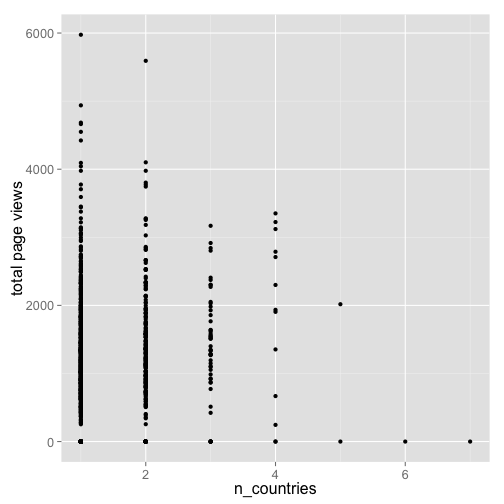
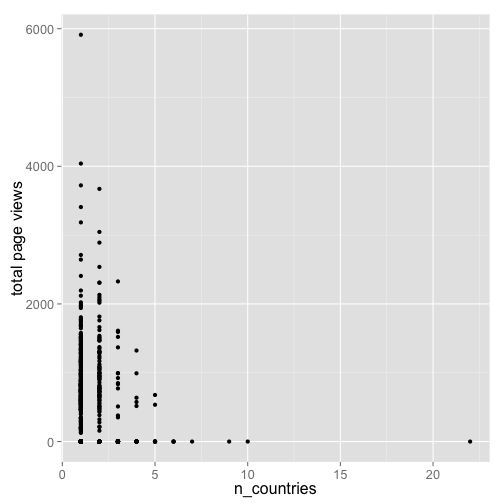
fixed rplos installation line

diff --git a/_site/2014/12/rplos-pubs-country/index.html b/_site/2014/12/rplos-pubs-country/index.html
@@ -71,7 +71,7 @@
 <p>You'll need the GitHub version for the coutry names data, or just use the CRAN version, and get country names elsewhere.</p>
 
 <pre><code class="r">install.packages("devtools")
-devtools::install_github("rplos")
+devtools::install_github("ropensci/rplos")
 </code></pre>
 
 <pre><code class="r">library("rplos")
@@ -91,19 +91,19 @@ devtools::install_github("rplos")
   isocodes$name[out]
 }))
 #&gt; [[1]]
-#&gt; [1] "Netherlands"
+#&gt; character(0)
 #&gt; 
 #&gt; [[2]]
-#&gt; [1] "China"
+#&gt; [1] "Jersey"        "United States"
 #&gt; 
 #&gt; [[3]]
-#&gt; [1] "Canada"
+#&gt; [1] "China"   "Germany"
 #&gt; 
 #&gt; [[4]]
-#&gt; [1] "China"
+#&gt; character(0)
 #&gt; 
 #&gt; [[5]]
-#&gt; [1] "Germany"
+#&gt; [1] "Argentina"      "United Kingdom"
 </code></pre>
 
 <p>You can combine this data with the previously collected data:</p>
@@ -118,23 +118,23 @@ splitem &lt;- function(x){
 articles$data$countries &lt;- sapply(countries, splitem)
 head(articles$data)
 #&gt;                             id
-#&gt; 1 10.1371/journal.pone.0004237
-#&gt; 2 10.1371/journal.pone.0006239
-#&gt; 3 10.1371/journal.pone.0034856
-#&gt; 4 10.1371/journal.pone.0021965
-#&gt; 5 10.1371/journal.pone.0008295
-#&gt;                                                                                                                                                                                                                                                                                                                                                                                   author_affiliate
-#&gt; 1 Division of General Internal Medicine, Department of Medicine, Radboud University Nijmegen Medical Center, Nijmegen, The Netherlands; Nijmegen Institute of Infection, Inflammation and Immunity (N4i), Nijmegen, The Netherlands; Department of Pharmacology and Toxicology, Nijmegen Center for Molecular Life Sciences, Radboud University Nijmegen Medical Center, Nijmegen, The Netherlands
-#&gt; 2                                                                                                                                                                                                                       State Key Laboratory of Cognitive Neuroscience and Learning, Beijing Normal University, Beijing, China; Graduate University of Chinese Academy of Sciences, Beijing, China
-#&gt; 3                                                                                                                                                                  Rotman Research Institute of Baycrest, Toronto, Ontario, Canada; Department of Psychology, University of Toronto, Toronto, Ontario, Canada; Dalla Lana School of Public Health, University of Toronto, Toronto, Ontario, Canada
-#&gt; 4                                                                                                                             Hefei National Laboratory for Physical Sciences at Microscale, School of Life Sciences, University of Science and Technology of China, Hefei, Anhui, People's Republic of China; School of Life Sciences, Anhui University, Hefei, Anhui, People's Republic of China
-#&gt; 5                                                                                                                                                                                                                                                                                                                   Institute of Biochemistry, Charité-Universitätsmedizin Berlin, Berlin, Germany
-#&gt;     countries
-#&gt; 1 Netherlands
-#&gt; 2       China
-#&gt; 3      Canada
-#&gt; 4       China
-#&gt; 5     Germany
+#&gt; 1 10.1371/journal.pone.0095870
+#&gt; 2 10.1371/journal.pone.0110535
+#&gt; 3 10.1371/journal.pone.0110991
+#&gt; 4 10.1371/journal.pone.0111234
+#&gt; 5 10.1371/journal.pone.0111388
+#&gt;                                                                                                                                                                                                                                                                                                                                                                                                                                                                                                                                                                                                                                                                                                                                                                                author_affiliate
+#&gt; 1 Institute of Epidemiology and Preventive Medicine, College of Public Health, National Taiwan University, Taipei, Taiwan; Department of Clinical Laboratory Sciences and Medical Biotechnology, College of Medicine, National Taiwan University, Taipei, Taiwan; Department of Gastroenterology, Ren-Ai Branch, Taipei City Hospital, Taipei, Taiwan; Division of Gastroenterology, Department of Internal Medicine, National Taiwan University Hospital and National Taiwan University College of Medicine, Taipei, Taiwan; Liver Research Unit, Chang Gung Memorial Hospital, Chang Gung University College of Medicine, Taipei, Taiwan; Division of Gastroenterology, Department of Medicine, Taipei Veterans General Hospital, Taipei, Taiwan; Cheng Hsin General Hospital, Taipei, Taiwan
+#&gt; 2    Durham Nephrology Associates, Durham, North Carolina, United States of America; Scientific Activities Department, The National Kidney Foundation, Inc., New York, New York, United States of America; Covance Inc., Princeton, New Jersey, United States of America; Departments of Medicine and Population Health Sciences, University of Wisconsin School of Medicine and Public Health, Madison, Wisconsin, United States of America; Department of Family Medicine, University at Buffalo, Buffalo, New York, United States of America; Baylor Health Care System, Baylor Heart and Vascular Institute, Dallas, Texas, United States of America; Department of Medicine, Division of Nephrology, Icahn School of Medicine at Mount Sinai, New York, New York, United States of America
+#&gt; 3                                                                                                                                                                                                                                                                                                                                                                                                                                  State Key Laboratory of Electronic Thin Films and Integrated Devices, School of Microelectronics and Solid-State electronics, University of Electronic Science and Technology of China, Sichuan, China; Electrical and Computer Engineering, Kaiserslautern University of Technology, Kaiserslautern German Gottlieb-Daimler-Strabe, Kaiserslautern, Germany
+#&gt; 4                                                                                                                                                                                                                                                                                                                                                                                                                                                                                                                                         SB RAS Institute of Chemical Biology and Fundamental Medicine, Novosibirsk, Russia; Pacific Institute of Bioorganic Chemistry, Far East Division, Russian Academy of Sciences, Vladivostok, Russia; Novosibirsk State University, Novosibirsk, Russia
+#&gt; 5                                                                                                                                                                                                                                                                                                                                                                                   CONICET, Consejo Nacional de Investigaciones Científicas y Técnicas, Ciudad Autónoma de Buenos Aires, Buenos Aires, Argentina; INGEO, Instituto de Geología, Facultad de Ciencias Exactas, Físicas y Naturales, Universidad Nacional de San Juan, San Juan, San Juan, Argentina; School of Geography, Earth and Environmental Sciences, University of Birmingham, Birmingham, West Midlands, United Kingdom
+#&gt;                   countries
+#&gt; 1                      &lt;NA&gt;
+#&gt; 2     Jersey, United States
+#&gt; 3            China, Germany
+#&gt; 4                      &lt;NA&gt;
+#&gt; 5 Argentina, United Kingdom
 </code></pre>
 
 <h2>Bigger data set</h2>
@@ -144,6 +144,8 @@ head(articles$data)
 <pre><code class="r">articles &lt;- searchplos(q='*:*', limit = 1000,
     fl=c("id","counter_total_all","author_affiliate"), 
     fq=list('article_type:"Research Article"', "doc_type:full"))
+#&gt; 1 
+#&gt; 2
 </code></pre>
 
 <p>Get countries</p>
@@ -171,7 +173,7 @@ ggplot(df, aes(n_countries, as.numeric(counter_total_all))) +
   theme_grey(base_size = 16)
 </code></pre>
 
-<p><img src="/public/img/2014-12-03-rplos-pubs-country/unnamed-chunk-10-1.png" alt="" /></p>
+<p><img src="figure/unnamed-chunk-10-1.png" alt="plot of chunk unnamed-chunk-10" /></p>
 
 <p>Conclusion: meh, maybe, maybe not</p>
 

diff --git a/_site/index.html b/_site/index.html
@@ -77,7 +77,7 @@
 <p>You'll need the GitHub version for the coutry names data, or just use the CRAN version, and get country names elsewhere.</p>
 
 <pre><code class="r">install.packages("devtools")
-devtools::install_github("rplos")
+devtools::install_github("ropensci/rplos")
 </code></pre>
 
 <pre><code class="r">library("rplos")
@@ -97,19 +97,19 @@ devtools::install_github("rplos")
   isocodes$name[out]
 }))
 #&gt; [[1]]
-#&gt; [1] "Netherlands"
+#&gt; character(0)
 #&gt; 
 #&gt; [[2]]
-#&gt; [1] "China"
+#&gt; [1] "Jersey"        "United States"
 #&gt; 
 #&gt; [[3]]
-#&gt; [1] "Canada"
+#&gt; [1] "China"   "Germany"
 #&gt; 
 #&gt; [[4]]
-#&gt; [1] "China"
+#&gt; character(0)
 #&gt; 
 #&gt; [[5]]
-#&gt; [1] "Germany"
+#&gt; [1] "Argentina"      "United Kingdom"
 </code></pre>
 
 <p>You can combine this data with the previously collected data:</p>
@@ -124,23 +124,23 @@ splitem &lt;- function(x){
 articles$data$countries &lt;- sapply(countries, splitem)
 head(articles$data)
 #&gt;                             id
-#&gt; 1 10.1371/journal.pone.0004237
-#&gt; 2 10.1371/journal.pone.0006239
-#&gt; 3 10.1371/journal.pone.0034856
-#&gt; 4 10.1371/journal.pone.0021965
-#&gt; 5 10.1371/journal.pone.0008295
-#&gt;                                                                                                                                                                                                                                                                                                                                                                                   author_affiliate
-#&gt; 1 Division of General Internal Medicine, Department of Medicine, Radboud University Nijmegen Medical Center, Nijmegen, The Netherlands; Nijmegen Institute of Infection, Inflammation and Immunity (N4i), Nijmegen, The Netherlands; Department of Pharmacology and Toxicology, Nijmegen Center for Molecular Life Sciences, Radboud University Nijmegen Medical Center, Nijmegen, The Netherlands
-#&gt; 2                                                                                                                                                                                                                       State Key Laboratory of Cognitive Neuroscience and Learning, Beijing Normal University, Beijing, China; Graduate University of Chinese Academy of Sciences, Beijing, China
-#&gt; 3                                                                                                                                                                  Rotman Research Institute of Baycrest, Toronto, Ontario, Canada; Department of Psychology, University of Toronto, Toronto, Ontario, Canada; Dalla Lana School of Public Health, University of Toronto, Toronto, Ontario, Canada
-#&gt; 4                                                                                                                             Hefei National Laboratory for Physical Sciences at Microscale, School of Life Sciences, University of Science and Technology of China, Hefei, Anhui, People's Republic of China; School of Life Sciences, Anhui University, Hefei, Anhui, People's Republic of China
-#&gt; 5                                                                                                                                                                                                                                                                                                                   Institute of Biochemistry, Charité-Universitätsmedizin Berlin, Berlin, Germany
-#&gt;     countries
-#&gt; 1 Netherlands
-#&gt; 2       China
-#&gt; 3      Canada
-#&gt; 4       China
-#&gt; 5     Germany
+#&gt; 1 10.1371/journal.pone.0095870
+#&gt; 2 10.1371/journal.pone.0110535
+#&gt; 3 10.1371/journal.pone.0110991
+#&gt; 4 10.1371/journal.pone.0111234
+#&gt; 5 10.1371/journal.pone.0111388
+#&gt;                                                                                                                                                                                                                                                                                                                                                                                                                                                                                                                                                                                                                                                                                                                                                                                author_affiliate
+#&gt; 1 Institute of Epidemiology and Preventive Medicine, College of Public Health, National Taiwan University, Taipei, Taiwan; Department of Clinical Laboratory Sciences and Medical Biotechnology, College of Medicine, National Taiwan University, Taipei, Taiwan; Department of Gastroenterology, Ren-Ai Branch, Taipei City Hospital, Taipei, Taiwan; Division of Gastroenterology, Department of Internal Medicine, National Taiwan University Hospital and National Taiwan University College of Medicine, Taipei, Taiwan; Liver Research Unit, Chang Gung Memorial Hospital, Chang Gung University College of Medicine, Taipei, Taiwan; Division of Gastroenterology, Department of Medicine, Taipei Veterans General Hospital, Taipei, Taiwan; Cheng Hsin General Hospital, Taipei, Taiwan
+#&gt; 2    Durham Nephrology Associates, Durham, North Carolina, United States of America; Scientific Activities Department, The National Kidney Foundation, Inc., New York, New York, United States of America; Covance Inc., Princeton, New Jersey, United States of America; Departments of Medicine and Population Health Sciences, University of Wisconsin School of Medicine and Public Health, Madison, Wisconsin, United States of America; Department of Family Medicine, University at Buffalo, Buffalo, New York, United States of America; Baylor Health Care System, Baylor Heart and Vascular Institute, Dallas, Texas, United States of America; Department of Medicine, Division of Nephrology, Icahn School of Medicine at Mount Sinai, New York, New York, United States of America
+#&gt; 3                                                                                                                                                                                                                                                                                                                                                                                                                                  State Key Laboratory of Electronic Thin Films and Integrated Devices, School of Microelectronics and Solid-State electronics, University of Electronic Science and Technology of China, Sichuan, China; Electrical and Computer Engineering, Kaiserslautern University of Technology, Kaiserslautern German Gottlieb-Daimler-Strabe, Kaiserslautern, Germany
+#&gt; 4                                                                                                                                                                                                                                                                                                                                                                                                                                                                                                                                         SB RAS Institute of Chemical Biology and Fundamental Medicine, Novosibirsk, Russia; Pacific Institute of Bioorganic Chemistry, Far East Division, Russian Academy of Sciences, Vladivostok, Russia; Novosibirsk State University, Novosibirsk, Russia
+#&gt; 5                                                                                                                                                                                                                                                                                                                                                                                   CONICET, Consejo Nacional de Investigaciones Científicas y Técnicas, Ciudad Autónoma de Buenos Aires, Buenos Aires, Argentina; INGEO, Instituto de Geología, Facultad de Ciencias Exactas, Físicas y Naturales, Universidad Nacional de San Juan, San Juan, San Juan, Argentina; School of Geography, Earth and Environmental Sciences, University of Birmingham, Birmingham, West Midlands, United Kingdom
+#&gt;                   countries
+#&gt; 1                      &lt;NA&gt;
+#&gt; 2     Jersey, United States
+#&gt; 3            China, Germany
+#&gt; 4                      &lt;NA&gt;
+#&gt; 5 Argentina, United Kingdom
 </code></pre>
 
 <h2>Bigger data set</h2>
@@ -150,6 +150,8 @@ head(articles$data)
 <pre><code class="r">articles &lt;- searchplos(q='*:*', limit = 1000,
     fl=c("id","counter_total_all","author_affiliate"), 
     fq=list('article_type:"Research Article"', "doc_type:full"))
+#&gt; 1 
+#&gt; 2
 </code></pre>
 
 <p>Get countries</p>
@@ -177,7 +179,7 @@ ggplot(df, aes(n_countries, as.numeric(counter_total_all))) +
   theme_grey(base_size = 16)
 </code></pre>
 
-<p><img src="/public/img/2014-12-03-rplos-pubs-country/unnamed-chunk-10-1.png" alt="" /></p>
+<p><img src="figure/unnamed-chunk-10-1.png" alt="plot of chunk unnamed-chunk-10" /></p>
 
 <p>Conclusion: meh, maybe, maybe not</p>
 

diff --git a/_posts/2014-12-03-rplos-pubs-country.md b/_posts/2014-12-03-rplos-pubs-country.md
@@ -25,7 +25,7 @@ You'll need the GitHub version for the coutry names data, or just use the CRAN v
 
 ```r
 install.packages("devtools")
-devtools::install_github("rplos")
+devtools::install_github("ropensci/rplos")
 ```
 
 
@@ -51,19 +51,19 @@ articles <- searchplos(q='*:*', limit = 5,
   isocodes$name[out]
 }))
 #> [[1]]
-#> [1] "Netherlands"
+#> character(0)
 #> 
 #> [[2]]
-#> [1] "China"
+#> [1] "Jersey"        "United States"
 #> 
 #> [[3]]
-#> [1] "Canada"
+#> [1] "China"   "Germany"
 #> 
 #> [[4]]
-#> [1] "China"
+#> character(0)
 #> 
 #> [[5]]
-#> [1] "Germany"
+#> [1] "Argentina"      "United Kingdom"
 ```
 
 You can combine this data with the previously collected data:
@@ -80,23 +80,23 @@ splitem <- function(x){
 articles$data$countries <- sapply(countries, splitem)
 head(articles$data)
 #>                             id
-#> 1 10.1371/journal.pone.0004237
-#> 2 10.1371/journal.pone.0006239
-#> 3 10.1371/journal.pone.0034856
-#> 4 10.1371/journal.pone.0021965
-#> 5 10.1371/journal.pone.0008295
-#>                                                                                                                                                                                                                                                                                                                                                                                   author_affiliate
-#> 1 Division of General Internal Medicine, Department of Medicine, Radboud University Nijmegen Medical Center, Nijmegen, The Netherlands; Nijmegen Institute of Infection, Inflammation and Immunity (N4i), Nijmegen, The Netherlands; Department of Pharmacology and Toxicology, Nijmegen Center for Molecular Life Sciences, Radboud University Nijmegen Medical Center, Nijmegen, The Netherlands
-#> 2                                                                                                                                                                                                                       State Key Laboratory of Cognitive Neuroscience and Learning, Beijing Normal University, Beijing, China; Graduate University of Chinese Academy of Sciences, Beijing, China
-#> 3                                                                                                                                                                  Rotman Research Institute of Baycrest, Toronto, Ontario, Canada; Department of Psychology, University of Toronto, Toronto, Ontario, Canada; Dalla Lana School of Public Health, University of Toronto, Toronto, Ontario, Canada
-#> 4                                                                                                                             Hefei National Laboratory for Physical Sciences at Microscale, School of Life Sciences, University of Science and Technology of China, Hefei, Anhui, People's Republic of China; School of Life Sciences, Anhui University, Hefei, Anhui, People's Republic of China
-#> 5                                                                                                                                                                                                                                                                                                                   Institute of Biochemistry, Charité-Universitätsmedizin Berlin, Berlin, Germany
-#>     countries
-#> 1 Netherlands
-#> 2       China
-#> 3      Canada
-#> 4       China
-#> 5     Germany
+#> 1 10.1371/journal.pone.0095870
+#> 2 10.1371/journal.pone.0110535
+#> 3 10.1371/journal.pone.0110991
+#> 4 10.1371/journal.pone.0111234
+#> 5 10.1371/journal.pone.0111388
+#>                                                                                                                                                                                                                                                                                                                                                                                                                                                                                                                                                                                                                                                                                                                                                                                author_affiliate
+#> 1 Institute of Epidemiology and Preventive Medicine, College of Public Health, National Taiwan University, Taipei, Taiwan; Department of Clinical Laboratory Sciences and Medical Biotechnology, College of Medicine, National Taiwan University, Taipei, Taiwan; Department of Gastroenterology, Ren-Ai Branch, Taipei City Hospital, Taipei, Taiwan; Division of Gastroenterology, Department of Internal Medicine, National Taiwan University Hospital and National Taiwan University College of Medicine, Taipei, Taiwan; Liver Research Unit, Chang Gung Memorial Hospital, Chang Gung University College of Medicine, Taipei, Taiwan; Division of Gastroenterology, Department of Medicine, Taipei Veterans General Hospital, Taipei, Taiwan; Cheng Hsin General Hospital, Taipei, Taiwan
+#> 2    Durham Nephrology Associates, Durham, North Carolina, United States of America; Scientific Activities Department, The National Kidney Foundation, Inc., New York, New York, United States of America; Covance Inc., Princeton, New Jersey, United States of America; Departments of Medicine and Population Health Sciences, University of Wisconsin School of Medicine and Public Health, Madison, Wisconsin, United States of America; Department of Family Medicine, University at Buffalo, Buffalo, New York, United States of America; Baylor Health Care System, Baylor Heart and Vascular Institute, Dallas, Texas, United States of America; Department of Medicine, Division of Nephrology, Icahn School of Medicine at Mount Sinai, New York, New York, United States of America
+#> 3                                                                                                                                                                                                                                                                                                                                                                                                                                  State Key Laboratory of Electronic Thin Films and Integrated Devices, School of Microelectronics and Solid-State electronics, University of Electronic Science and Technology of China, Sichuan, China; Electrical and Computer Engineering, Kaiserslautern University of Technology, Kaiserslautern German Gottlieb-Daimler-Strabe, Kaiserslautern, Germany
+#> 4                                                                                                                                                                                                                                                                                                                                                                                                                                                                                                                                         SB RAS Institute of Chemical Biology and Fundamental Medicine, Novosibirsk, Russia; Pacific Institute of Bioorganic Chemistry, Far East Division, Russian Academy of Sciences, Vladivostok, Russia; Novosibirsk State University, Novosibirsk, Russia
+#> 5                                                                                                                                                                                                                                                                                                                                                                                   CONICET, Consejo Nacional de Investigaciones Científicas y Técnicas, Ciudad Autónoma de Buenos Aires, Buenos Aires, Argentina; INGEO, Instituto de Geología, Facultad de Ciencias Exactas, Físicas y Naturales, Universidad Nacional de San Juan, San Juan, San Juan, Argentina; School of Geography, Earth and Environmental Sciences, University of Birmingham, Birmingham, West Midlands, United Kingdom
+#>                   countries
+#> 1                      <NA>
+#> 2     Jersey, United States
+#> 3            China, Germany
+#> 4                      <NA>
+#> 5 Argentina, United Kingdom
 ```
 
 ## Bigger data set
@@ -108,6 +108,8 @@ Okay, cool, lets do it on a bigger data set, and this time, we'll get another va
 articles <- searchplos(q='*:*', limit = 1000,
     fl=c("id","counter_total_all","author_affiliate"), 
     fq=list('article_type:"Research Article"', "doc_type:full"))
+#> 1 
+#> 2
 ```
 
 Get countries
@@ -141,7 +143,7 @@ ggplot(df, aes(n_countries, as.numeric(counter_total_all))) +
   theme_grey(base_size = 16)
 ```
 
-![](/public/img/2014-12-03-rplos-pubs-country/unnamed-chunk-10-1.png) 
+![plot of chunk unnamed-chunk-10](figure/unnamed-chunk-10-1.png) 
 
 Conclusion: meh, maybe, maybe not
 

diff --git a/_drafts/2014-12-03-rplos-pubs-country.md b/_drafts/2014-12-03-rplos-pubs-country.md
@@ -25,7 +25,7 @@ You'll need the GitHub version for the coutry names data, or just use the CRAN v
 
 ```r
 install.packages("devtools")
-devtools::install_github("rplos")
+devtools::install_github("ropensci/rplos")
 ```
 
 
@@ -51,19 +51,19 @@ articles <- searchplos(q='*:*', limit = 5,
   isocodes$name[out]
 }))
 #> [[1]]
-#> [1] "Netherlands"
+#> character(0)
 #> 
 #> [[2]]
-#> [1] "China"
+#> [1] "Jersey"        "United States"
 #> 
 #> [[3]]
-#> [1] "Canada"
+#> [1] "China"   "Germany"
 #> 
 #> [[4]]
-#> [1] "China"
+#> character(0)
 #> 
 #> [[5]]
-#> [1] "Germany"
+#> [1] "Argentina"      "United Kingdom"
 ```
 
 You can combine this data with the previously collected data:
@@ -80,23 +80,23 @@ splitem <- function(x){
 articles$data$countries <- sapply(countries, splitem)
 head(articles$data)
 #>                             id
-#> 1 10.1371/journal.pone.0004237
-#> 2 10.1371/journal.pone.0006239
-#> 3 10.1371/journal.pone.0034856
-#> 4 10.1371/journal.pone.0021965
-#> 5 10.1371/journal.pone.0008295
-#>                                                                                                                                                                                                                                                                                                                                                                                   author_affiliate
-#> 1 Division of General Internal Medicine, Department of Medicine, Radboud University Nijmegen Medical Center, Nijmegen, The Netherlands; Nijmegen Institute of Infection, Inflammation and Immunity (N4i), Nijmegen, The Netherlands; Department of Pharmacology and Toxicology, Nijmegen Center for Molecular Life Sciences, Radboud University Nijmegen Medical Center, Nijmegen, The Netherlands
-#> 2                                                                                                                                                                                                                       State Key Laboratory of Cognitive Neuroscience and Learning, Beijing Normal University, Beijing, China; Graduate University of Chinese Academy of Sciences, Beijing, China
-#> 3                                                                                                                                                                  Rotman Research Institute of Baycrest, Toronto, Ontario, Canada; Department of Psychology, University of Toronto, Toronto, Ontario, Canada; Dalla Lana School of Public Health, University of Toronto, Toronto, Ontario, Canada
-#> 4                                                                                                                             Hefei National Laboratory for Physical Sciences at Microscale, School of Life Sciences, University of Science and Technology of China, Hefei, Anhui, People's Republic of China; School of Life Sciences, Anhui University, Hefei, Anhui, People's Republic of China
-#> 5                                                                                                                                                                                                                                                                                                                   Institute of Biochemistry, Charité-Universitätsmedizin Berlin, Berlin, Germany
-#>     countries
-#> 1 Netherlands
-#> 2       China
-#> 3      Canada
-#> 4       China
-#> 5     Germany
+#> 1 10.1371/journal.pone.0095870
+#> 2 10.1371/journal.pone.0110535
+#> 3 10.1371/journal.pone.0110991
+#> 4 10.1371/journal.pone.0111234
+#> 5 10.1371/journal.pone.0111388
+#>                                                                                                                                                                                                                                                                                                                                                                                                                                                                                                                                                                                                                                                                                                                                                                                author_affiliate
+#> 1 Institute of Epidemiology and Preventive Medicine, College of Public Health, National Taiwan University, Taipei, Taiwan; Department of Clinical Laboratory Sciences and Medical Biotechnology, College of Medicine, National Taiwan University, Taipei, Taiwan; Department of Gastroenterology, Ren-Ai Branch, Taipei City Hospital, Taipei, Taiwan; Division of Gastroenterology, Department of Internal Medicine, National Taiwan University Hospital and National Taiwan University College of Medicine, Taipei, Taiwan; Liver Research Unit, Chang Gung Memorial Hospital, Chang Gung University College of Medicine, Taipei, Taiwan; Division of Gastroenterology, Department of Medicine, Taipei Veterans General Hospital, Taipei, Taiwan; Cheng Hsin General Hospital, Taipei, Taiwan
+#> 2    Durham Nephrology Associates, Durham, North Carolina, United States of America; Scientific Activities Department, The National Kidney Foundation, Inc., New York, New York, United States of America; Covance Inc., Princeton, New Jersey, United States of America; Departments of Medicine and Population Health Sciences, University of Wisconsin School of Medicine and Public Health, Madison, Wisconsin, United States of America; Department of Family Medicine, University at Buffalo, Buffalo, New York, United States of America; Baylor Health Care System, Baylor Heart and Vascular Institute, Dallas, Texas, United States of America; Department of Medicine, Division of Nephrology, Icahn School of Medicine at Mount Sinai, New York, New York, United States of America
+#> 3                                                                                                                                                                                                                                                                                                                                                                                                                                  State Key Laboratory of Electronic Thin Films and Integrated Devices, School of Microelectronics and Solid-State electronics, University of Electronic Science and Technology of China, Sichuan, China; Electrical and Computer Engineering, Kaiserslautern University of Technology, Kaiserslautern German Gottlieb-Daimler-Strabe, Kaiserslautern, Germany
+#> 4                                                                                                                                                                                                                                                                                                                                                                                                                                                                                                                                         SB RAS Institute of Chemical Biology and Fundamental Medicine, Novosibirsk, Russia; Pacific Institute of Bioorganic Chemistry, Far East Division, Russian Academy of Sciences, Vladivostok, Russia; Novosibirsk State University, Novosibirsk, Russia
+#> 5                                                                                                                                                                                                                                                                                                                                                                                   CONICET, Consejo Nacional de Investigaciones Científicas y Técnicas, Ciudad Autónoma de Buenos Aires, Buenos Aires, Argentina; INGEO, Instituto de Geología, Facultad de Ciencias Exactas, Físicas y Naturales, Universidad Nacional de San Juan, San Juan, San Juan, Argentina; School of Geography, Earth and Environmental Sciences, University of Birmingham, Birmingham, West Midlands, United Kingdom
+#>                   countries
+#> 1                      <NA>
+#> 2     Jersey, United States
+#> 3            China, Germany
+#> 4                      <NA>
+#> 5 Argentina, United Kingdom
 ```
 
 ## Bigger data set
